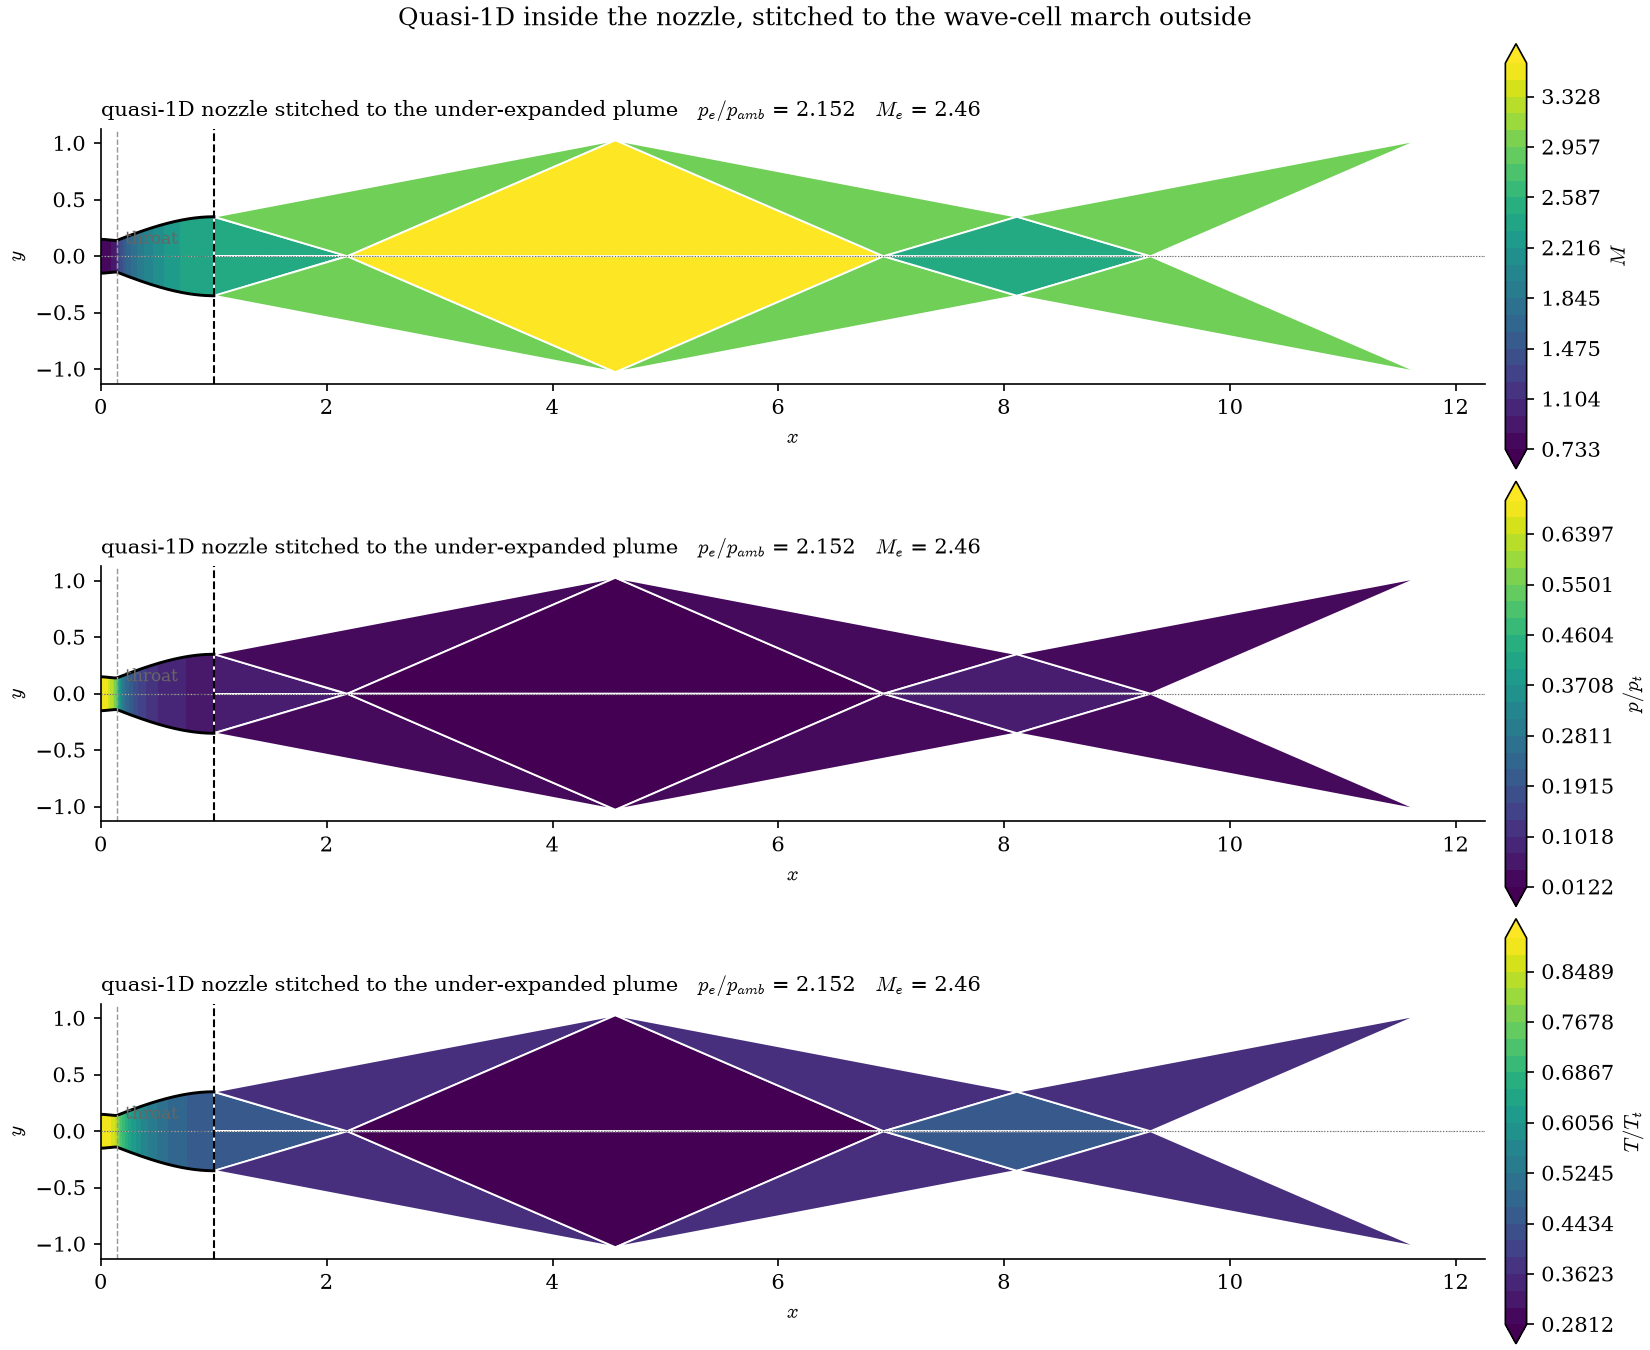
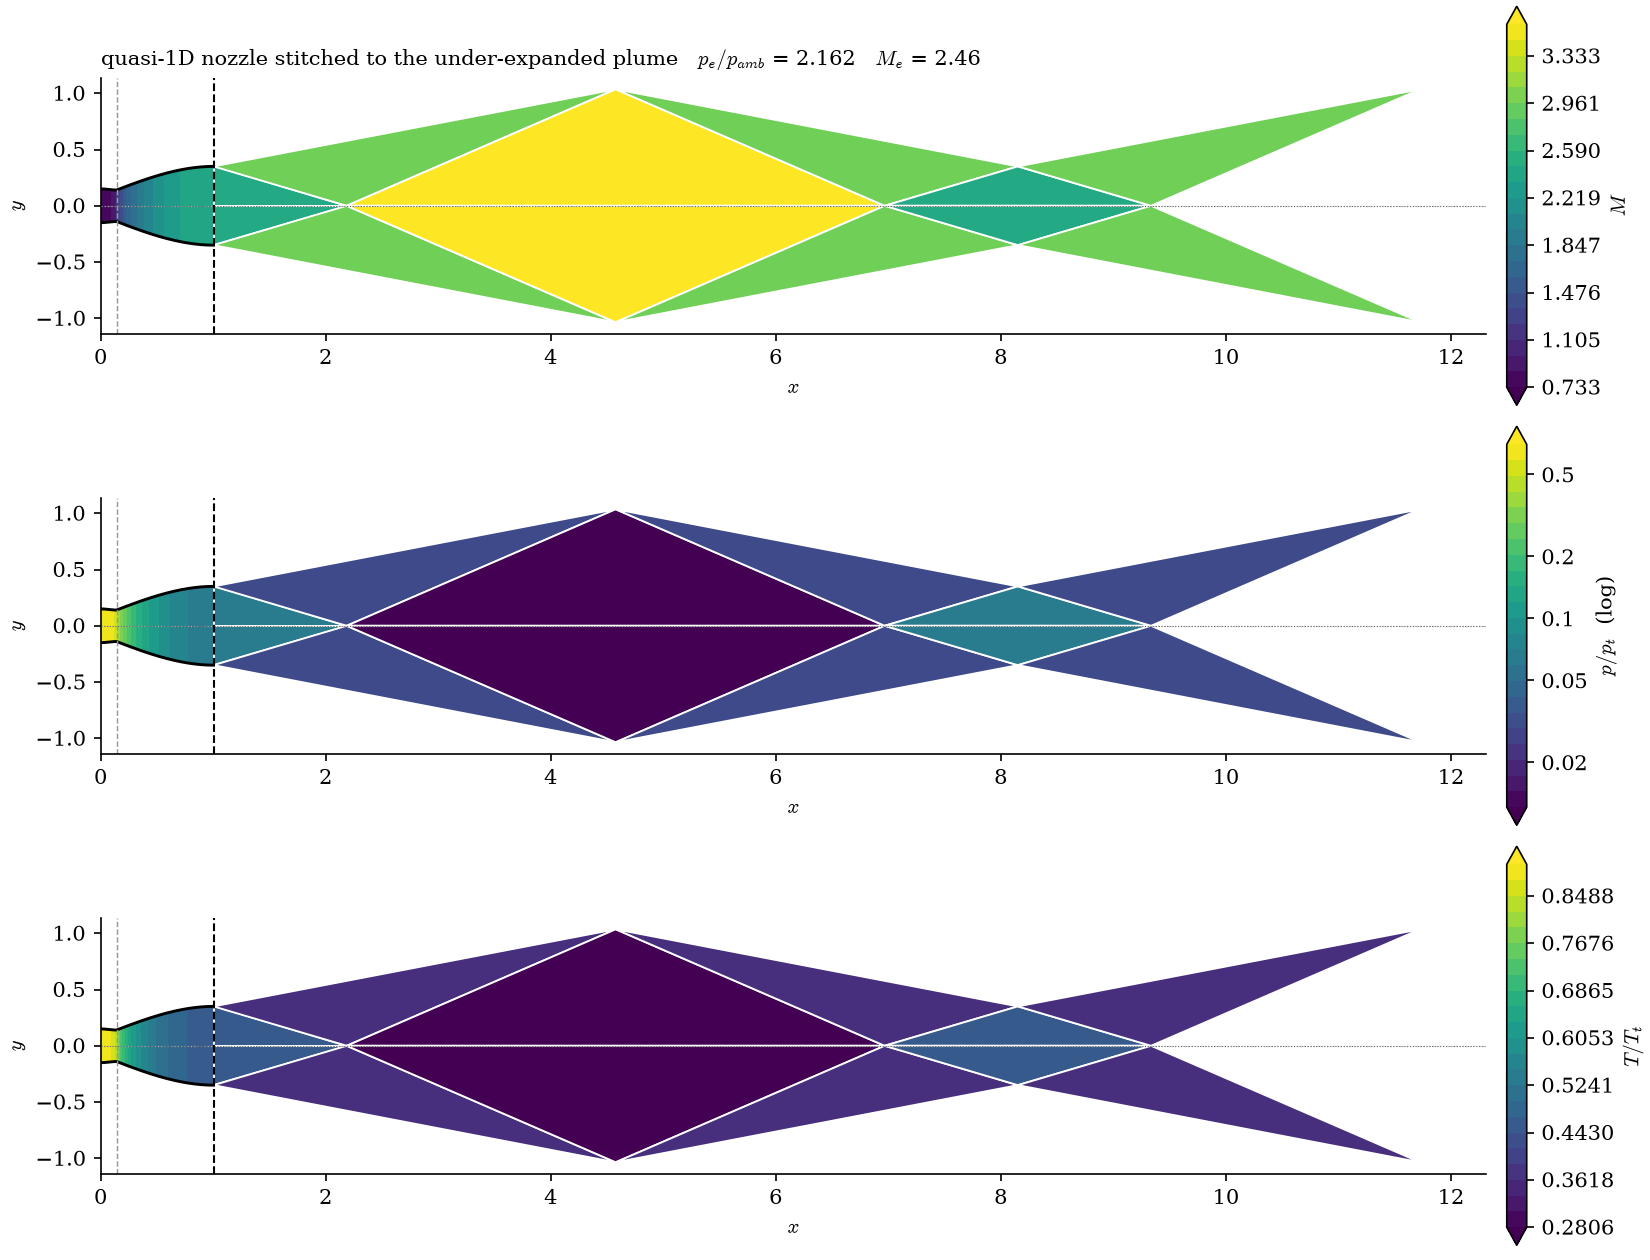
Show the nozzle-and-plume stitch in the README, and drop the SI unit labels
The README's external-flow section showed `jet_fields.png` -- the plume alone,
with the nozzle it came out of nowhere in the frame.  It now shows the stitched
figure instead: quasi-1D inside the nozzle joined at the exit plane to the
wave-cell march outside, Mach, pressure and temperature, in one picture.

Three fixes were needed before that figure was fit to lead a README.

Pressure is now drawn on a log ramp, and the colourbar says so.  Across the
nozzle *and* the plume, p/p_t runs from about 1 at the reservoir to 0.01 in the
expanded jet -- more than a decade and a half.  On the linear ramp the entire
exterior collapsed into the bottom colour step and the shock-cell structure, the
subject of the figure, was simply not visible.  M, T/T_t and v/a_t each span
well under a factor of five and stay linear, where a colour difference can still
be read as proportional to a difference in the quantity.  A test pins the choice
per quantity, because the failure it guards against is silent: the figure still
draws, it just stops showing anything.

The log colourbar ticks the decades and their 2 and 5 subdivisions rather than
its 24 contour levels, which came out as "2.89583 x 10^-1" -- six significant
figures of a number nobody wants to six figures.

`plot_contour` takes `label_throat=False`.  The stitched frame is twelve nozzle
lengths wide, so the word "throat" landed on the filled field in a grey that
could not be read against it.  The dashed line still marks the station.
[…]

diff --git a/src/external/plotting.py b/src/external/plotting.py
@@ -619,7 +619,7 @@ def plot_nozzle_and_plume(
     :func:`src.plotting.plot_dg_vs_quasi1d`.
     """
     import matplotlib.pyplot as plt
-    from matplotlib.colors import Normalize
+    from matplotlib.colors import LogNorm, Normalize
 
     if quantity not in PLUME_QUANTITIES:
         raise ValueError(f"quantity must be one of {sorted(PLUME_QUANTITIES)}, got {quantity!r}")
@@ -637,16 +637,30 @@ def plot_nozzle_and_plume(
 
     lo = float(min(inner.min(), min(outer))) if outer else float(inner.min())
     hi = float(max(inner.max(), max(outer))) if outer else float(inner.max())
-    norm = Normalize(vmin=lo, vmax=hi)
     ramp = plt.get_cmap(cmap)
-    levels = np.linspace(lo, hi, 24)
+
+    # Pressure gets a log scale; everything else a linear one.  Not a stylistic
+    # preference -- over the nozzle *and* the plume, p/p_t runs from about 1 at
+    # the reservoir to 0.01 in the expanded jet, more than a decade and a half.
+    # On a linear ramp the entire exterior collapses into the bottom colour step
+    # and the shock-cell structure, which is the whole subject of the figure,
+    # disappears.  M, T/T_t and v/a_t each span well under a factor of five and
+    # are honest on a linear scale, where a reader can take a colour difference
+    # as proportional to a difference in the quantity.
+    log_scaled = quantity == "pressure" and lo > 0.0
+    if log_scaled:
+        norm = LogNorm(vmin=lo, vmax=hi)
+        levels = np.logspace(np.log10(lo), np.log10(hi), 24)
+    else:
+        norm = Normalize(vmin=lo, vmax=hi)
+        levels = np.linspace(lo, hi, 24)
 
     # ---- inside: quasi-1D, constant across the channel at each station -----
     wall = np.asarray(geom.wall(q1d.x))
     xx = np.repeat(np.asarray(q1d.x)[:, None], 2, axis=1)
     yy = np.stack([-wall, wall], axis=1)
     zz = np.repeat(inner[:, None], 2, axis=1)
-    art = ax.contourf(xx, yy, zz, levels=levels, cmap=ramp, extend="both")
+    art = ax.contourf(xx, yy, zz, levels=levels, norm=norm, cmap=ramp, extend="both")
 
     # ---- outside: one flat colour per wave cell ----------------------------
     for (region, poly), value in zip(polys, outer, strict=True):
@@ -661,7 +675,10 @@ def plot_nozzle_and_plume(
                 zorder=2,
             )
 
-    plot_contour(geom, ax=ax, mirror=True, color="k", lw=1.4)
+    # The frame is twelve nozzle lengths wide, so the word "throat" would sit on
+    # the filled field in a grey that cannot be read against it.  The dashed line
+    # still marks the station.
+    plot_contour(geom, ax=ax, mirror=True, color="k", lw=1.4, label_throat=False)
     ax.axvline(cells.lip_x, color="k", lw=1.0, ls="--", zorder=4)
     ax.axhline(0.0, color="0.4", lw=0.5, ls=":", zorder=4)
     ax.set_xlabel("$x$")
@@ -670,7 +687,22 @@ def plot_nozzle_and_plume(
     for side in ("top", "right"):
         ax.spines[side].set_visible(False)
     if colorbar:
-        plt.colorbar(art, ax=ax, label=PLUME_QUANTITIES[quantity], pad=0.015, fraction=0.04)
+        label = PLUME_QUANTITIES[quantity]
+        if log_scaled:
+            # Say so on the bar itself.  A log ramp read as linear is a worse
+            # misreading than no colourbar at all.
+            label += "  (log)"
+        bar = plt.colorbar(art, ax=ax, label=label, pad=0.015, fraction=0.04)
+        if log_scaled:
+            # Left alone, a contour colourbar labels its 24 *levels*, which on a
+            # log ramp come out as 2.89583 x 10^-1 and similar -- six significant
+            # figures of a number nobody wants to six figures.  Tick the decades
+            # and their 2 and 5 subdivisions instead, formatted short.
+            from matplotlib import ticker
+
+            bar.locator = ticker.LogLocator(base=10.0, subs=(1.0, 2.0, 5.0))
+            bar.formatter = ticker.FuncFormatter(lambda v, _: f"{v:g}")
+            bar.update_ticks()
 
     ew = cells.exit_waves
     ax.set_title(

diff --git a/src/plotting.py b/src/plotting.py
@@ -46,9 +46,21 @@ def _axes(ax=None, figsize=(9.0, 3.2)):
 
 # --------------------------------------------------------------------------
 def plot_contour(
-    geom: NozzleGeometry, ax=None, *, n: int = 400, mirror: bool = True, **kwargs: Any
+    geom: NozzleGeometry,
+    ax=None,
+    *,
+    n: int = 400,
+    mirror: bool = True,
+    label_throat: bool = True,
+    **kwargs: Any,
 ):
-    """Draw the nozzle wall (and its mirror image), with the throat marked."""
+    """Draw the nozzle wall (and its mirror image), with the throat marked.
+
+    ``label_throat=False`` keeps the throat's dashed line but drops the word.
+    That is for figures where the nozzle is a small part of a much wider frame
+    -- the plume stitch spans twelve nozzle lengths -- and the annotation would
+    land on top of a filled field in a grey that is unreadable against it.
+    """
     ax = _axes(ax)
     x = np.linspace(0.0, geom.length, n)
     y = np.asarray(geom.wall(x))
@@ -60,16 +72,17 @@ def plot_contour(
         ax.axhline(0.0, color="0.7", lw=0.6, ls=":")
     xt = geom.throat_location()
     ax.axvline(xt, color="0.6", lw=0.7, ls="--")
-    ax.annotate(
-        "throat",
-        (xt, 0.0),
-        textcoords="offset points",
-        xytext=(4, 6),
-        fontsize=8,
-        color="0.4",
-    )
-    ax.set_xlabel("$x$ [m]")
-    ax.set_ylabel("$y$ [m]")
+    if label_throat:
+        ax.annotate(
+            "throat",
+            (xt, 0.0),
+            textcoords="offset points",
+            xytext=(4, 6),
+            fontsize=8,
+            color="0.4",
+        )
+    ax.set_xlabel("$x$")
+    ax.set_ylabel("$y$")
     ax.set_aspect("equal")
     return ax
 
@@ -131,8 +144,8 @@ def plot_mesh(
         ax.legend(fontsize=8, loc="upper left", frameon=False, ncol=4)
 
     ax.autoscale_view()
-    ax.set_xlabel("$x$ [m]")
-    ax.set_ylabel("$y$ [m]")
+    ax.set_xlabel("$x$")
+    ax.set_ylabel("$y$")
     ax.set_aspect("equal")
     ax.set_title(f"{topo.n_elem} {topo.kind} elements, $Q={topo.geometry_order}$", fontsize=10)
     return ax
@@ -232,7 +245,7 @@ def plot_centreline(
             )
 
     ax.axvline(result.geometry.throat_location(), color="0.7", lw=0.7, ls="--")
-    ax.set_xlabel("$x$ [m]")
+    ax.set_xlabel("$x$")
     ax.set_ylabel(ylabel)
     ax.legend(fontsize=8, frameon=False)
     ax.grid(alpha=0.25)
@@ -244,7 +257,7 @@ def plot_wall(result: SolveResult, ax=None):
     ax = _axes(ax, figsize=(7.5, 3.4))
     wp = wall_profile(result)
     ax.plot(wp["x"], wp["pressure"], "-", color="tab:red", lw=1.5)
-    ax.set_xlabel("$x$ [m]")
+    ax.set_xlabel("$x$")
     ax.set_ylabel("wall $p$", color="tab:red")
     ax.tick_params(axis="y", colors="tab:red")
     twin = ax.twinx()
@@ -268,7 +281,7 @@ def plot_exit_profile(result: SolveResult, ax=None, *, n_points: int = 40):
     q = solve_quasi1d(result.geometry, result.flow)
     ax.axvline(q.exit_mach, color="0.4", ls="--", lw=1.2, label="quasi-1D")
     ax.set_xlabel("Mach number")
-    ax.set_ylabel("$y$ [m]")
+    ax.set_ylabel("$y$")
     ax.set_title("exit plane", fontsize=10)
     ax.legend(fontsize=8, frameon=False)
     ax.grid(alpha=0.25)

diff --git a/tests/test_external.py b/tests/test_external.py
@@ -432,6 +432,38 @@ def test_every_stitched_plume_quantity_draws(supersonic_result, quantity):
     plt.close(fig)
 
 
+@pytest.mark.parametrize(
+    ("quantity", "log_expected"),
+    [("pressure", True), ("mach", False), ("temperature", False), ("velocity", False)],
+)
+def test_only_pressure_is_drawn_on_a_log_ramp(supersonic_result, quantity, log_expected):
+    """Pressure spans more than a decade across the nozzle and plume; nothing else does.
+
+    On a linear ramp the whole exterior collapses into the bottom colour step
+    and the shock cells -- the subject of the figure -- disappear.  The other
+    three span under a factor of five and stay linear, so a colour difference
+    can be read as proportional to a difference in the quantity.
+
+    This pins the choice per quantity, because the failure it guards against is
+    silent: the figure still draws, it just stops showing anything.
+    """
+    matplotlib = pytest.importorskip("matplotlib")
+
+    matplotlib.use("Agg")
+    import matplotlib.pyplot as plt
+    from matplotlib.colors import LogNorm
+
+    from src.external import jet_wave_cells, plot_nozzle_and_plume
+
+    jc = jet_wave_cells(supersonic_result, ambient_pressure_ratio=0.030, cells=2)
+    fig, ax = plt.subplots()
+    plot_nozzle_and_plume(supersonic_result, jc, quantity=quantity, ax=ax)
+    norms = [isinstance(c.norm, LogNorm) for c in ax.collections if hasattr(c, "norm")]
+    assert norms, "nothing drawn to check the norm of"
+    assert any(norms) == log_expected, f"{quantity}: log ramp {any(norms)}, wanted {log_expected}"
+    plt.close(fig)
+
+
 def test_an_unknown_plume_quantity_is_refused(supersonic_result):
     pytest.importorskip("matplotlib")
     from src.external import plot_nozzle_and_plume

diff --git a/docs/usage.md b/docs/usage.md
@@ -402,13 +402,20 @@ isentropic tables apply directly.
 | `contour` | wall family, see below | `'bell'` |
 | `area_ratio` | exit-to-throat area ratio; sets the design Mach number | `2.5019` |
 | `throat_x` | throat location as a fraction of length | `0.1388` |
-| `throat_half_height` | throat half-height [m]; scales the whole nozzle | `0.13989434` |
-| `inlet_half_height` | inlet half-height [m] | `0.15` |
-| `length` | axial length [m] | `1.0` |
+| `throat_half_height` | throat half-height; scales the whole nozzle | `0.13989434` |
+| `inlet_half_height` | inlet half-height | `0.15` |
+| `length` | axial length | `1.0` |
 | `theta_initial_deg` | wall angle just past the throat | auto (monotone) |
 | `theta_exit_deg` | wall angle at the exit plane | `0.0` |
 | `bezier_w1`, `bezier_w2` | Bézier shape weights | `0.55`, `0.90` |
 | `back_pressure_ratio` | `p_back / p_total`; sets the operating point | `0.15` |
+
+The three lengths carry **no units** — see
+[units](#units-the-solver-is-non-dimensional). Only their ratios enter the
+solution, which is why multiplying all three by the same factor leaves every
+dimensionless output bit-identical and is pinned by a test. Scaling `length`
+*alone* is not a rescale: it holds the heights fixed and so makes the nozzle
+more slender, which is a different shape entitled to a different answer.
 
 ### Contour families
 

diff --git a/README.md b/README.md
@@ -77,10 +77,18 @@ one solve per variable. → [`docs/workflows.md`](docs/workflows.md)
 
 **Looks outside the nozzle.** A nozzle designed to be shock free inside has its
 whole wave system *outside* the exit, so `src/external/` computes that in closed
-form — the lip wave and the repeating shock-cell pattern downstream.
+form — the lip wave and the repeating shock-cell pattern downstream. One
+command draws the whole flow in a single frame: quasi-1D inside the nozzle,
+stitched at the exit plane to the wave-cell march outside.
 → [`docs/workflows.md`](docs/workflows.md)
 
-![Shock cells outside the nozzle](docs/figures/jet_fields.png)
+![The nozzle stitched to its plume: Mach number, pressure and temperature from the reservoir through three shock cells](docs/figures/nozzle_plume.png)
+
+Everything drawn is a ratio — $M$, $p/p_t$, $T/T_t$ — because the two regions
+report in different units. The small step in colour at the dashed exit line is
+not a drawing artefact: inside is quasi-1D theory, outside is a march started
+from the *computed* exit state, and the gap between them is the
+two-dimensionality of the exit flow.
 
 **Runs fast.** A Numba backend with fused Runge–Kutta stages, a NumPy reference
 backend, and JAX for gradients. → [`docs/performance.md`](docs/performance.md)

diff --git a/docs/workflows.md b/docs/workflows.md
@@ -229,6 +229,14 @@ Everything plotted is a ratio — `M`, `p/p_t`, `T/T_t`, `v/a_t` — because the
 regions report in different units, and stitching raw values would join two
 scales and look seamless while being wrong.
 
+**Pressure alone is drawn on a log ramp**, and the colourbar says so. Across the
+nozzle *and* the plume, `p/p_t` runs from about 1 at the reservoir to 0.01 in the
+expanded jet — more than a decade and a half. On a linear ramp the whole exterior
+collapses into the bottom colour step and the shock-cell structure, which is the
+subject of the figure, vanishes. `M`, `T/T_t` and `v/a_t` each span well under a
+factor of five, so they stay linear, where a colour difference can be read as
+proportional to a difference in the quantity.
+
 **The small step at the dashed exit line is real, and it is the point.** Inside
 is quasi-1D theory; outside is a march started from the *computed* exit state,
 which is a 2D solve. Quasi-1D assumes parallel streamlines at the exit and the

diff --git a/docs/theory.md b/docs/theory.md
@@ -178,9 +178,9 @@ every one of which is differentiable ([Design sensitivities](#design-sensitiviti
 |---|---|---|
 | $\mathrm{AR}$ | `area_ratio` | exit-to-throat area ratio |
 | $x_{\mathrm{th}}$ | `throat_x` | throat location as a fraction of $L$ |
-| $y_{\mathrm{th}}$ | `throat_half_height` | throat half-height [m]; scales the nozzle |
-| $y_{\mathrm{in}}$ | `inlet_half_height` | inlet half-height [m]; must exceed $y_{\mathrm{th}}$ |
-| $L$ | `length` | axial length [m] |
+| $y_{\mathrm{th}}$ | `throat_half_height` | throat half-height; scales the nozzle |
+| $y_{\mathrm{in}}$ | `inlet_half_height` | inlet half-height; must exceed $y_{\mathrm{th}}$ |
+| $L$ | `length` | axial length |
 | $\theta_i$ | `theta_initial_deg` | wall angle just downstream of the throat |
 | $\theta_e$ | `theta_exit_deg` | wall angle at the exit plane |
 | $w_1, w_2$ | `bezier_w1` / `bezier_w2` | Bézier shape weights |
